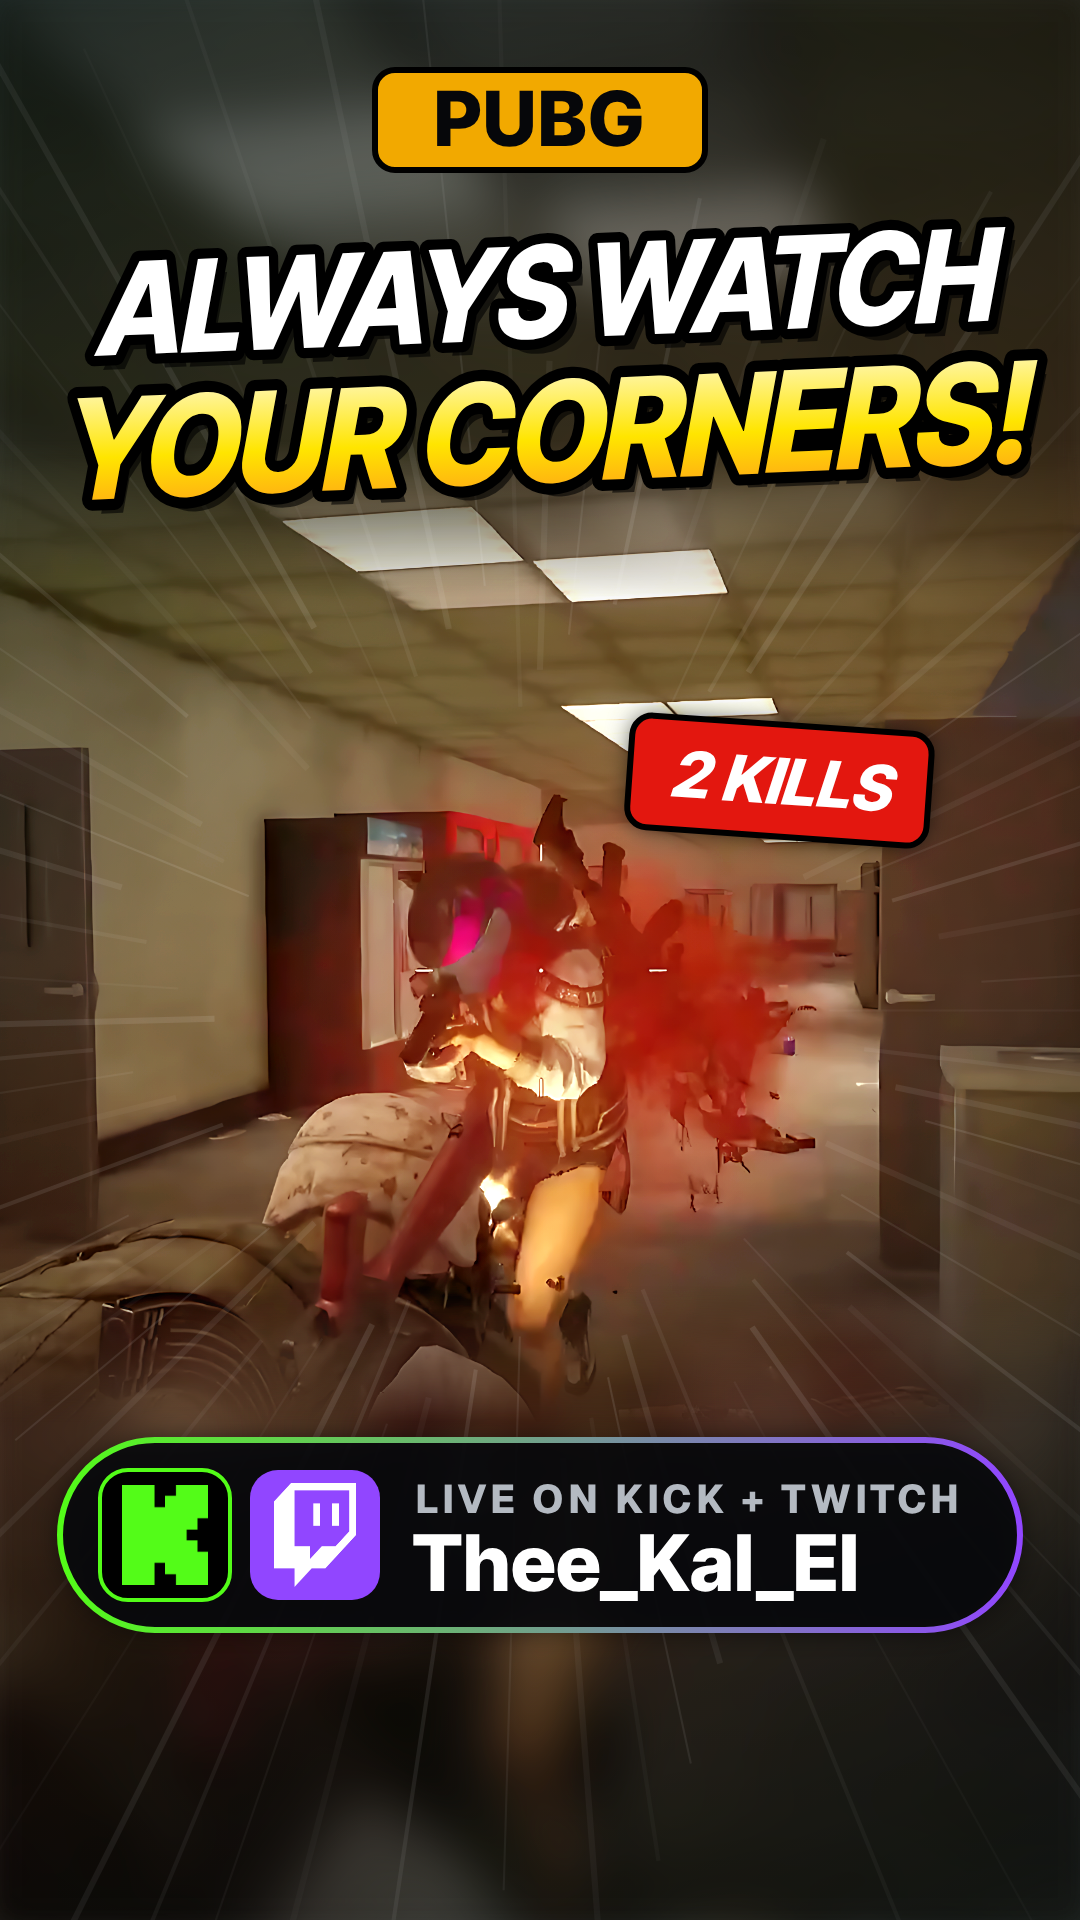
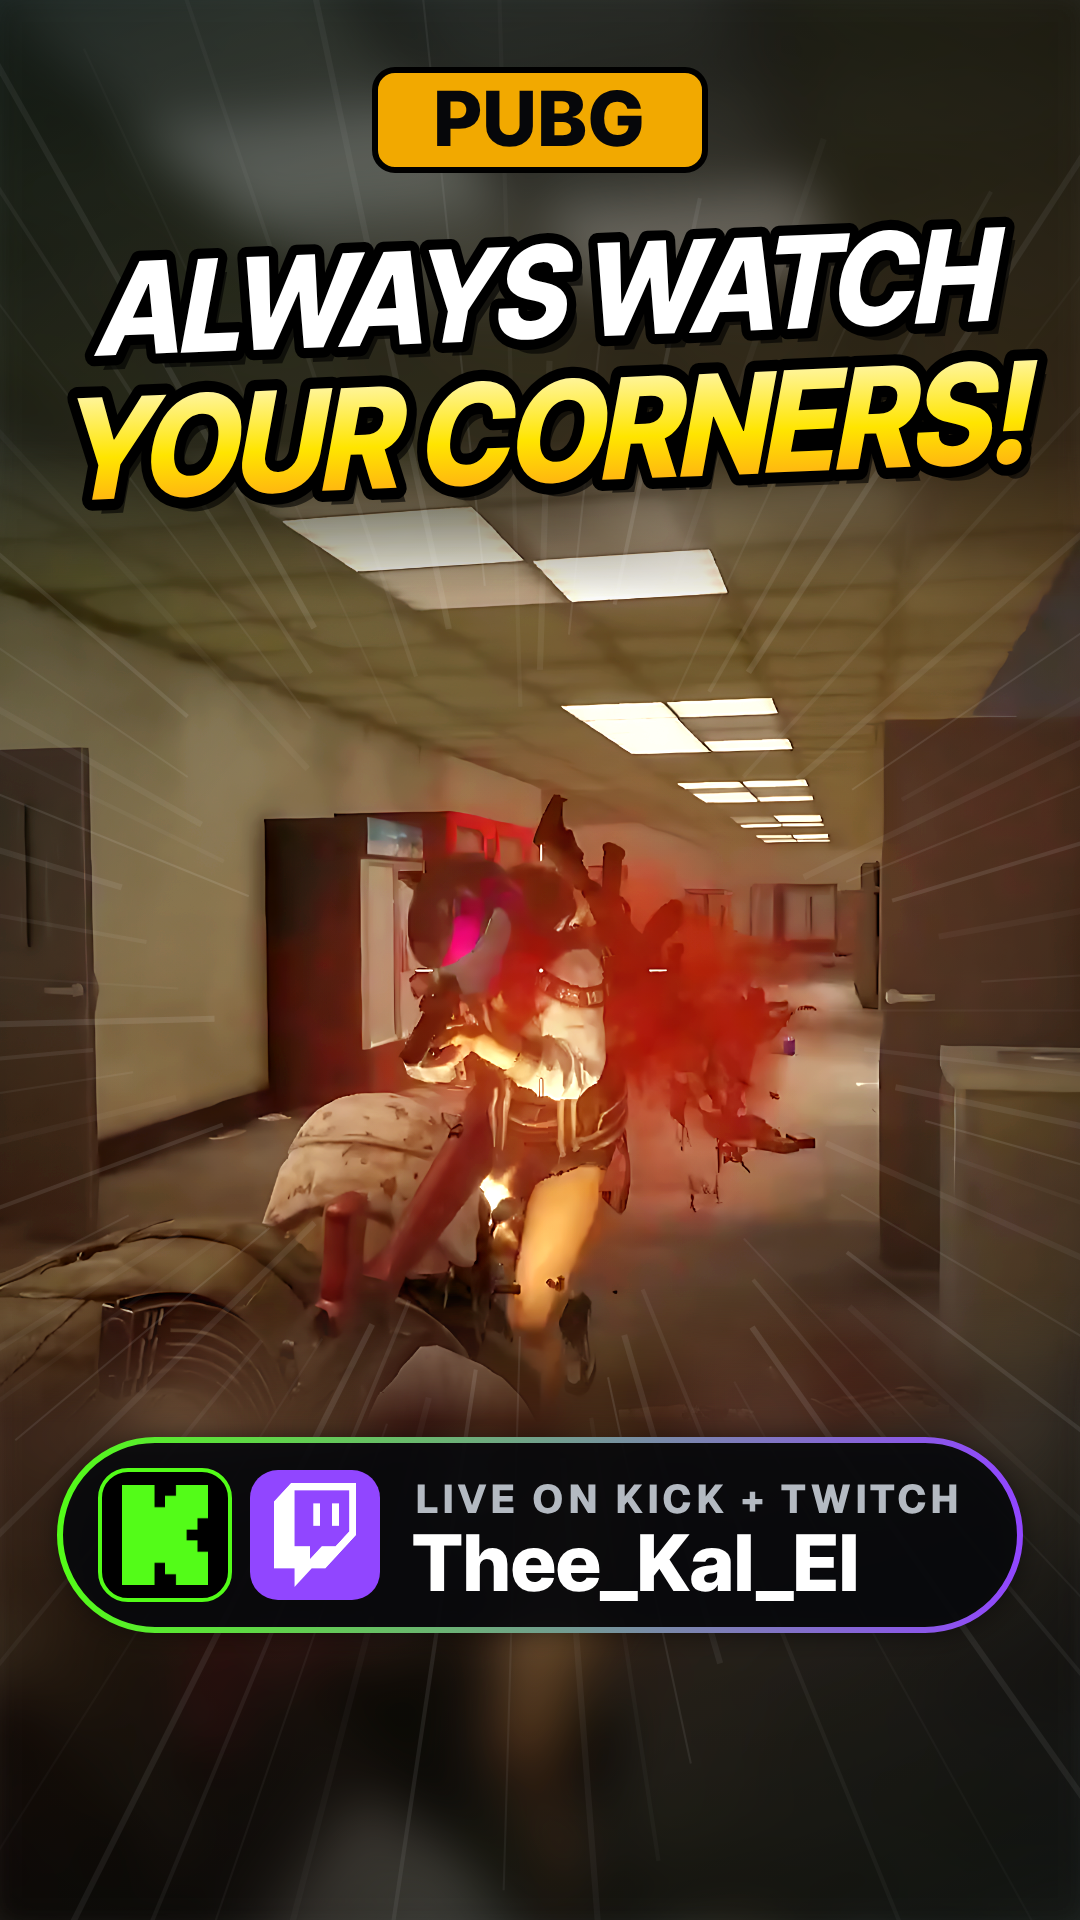
Corners thumbnail: remove 2 KILLS tag
Claude-Session: https://claude.ai/code/session_01NSJvdmHsHoazKiuuGVQfMY

Changed region(s): [[0.55, 0.3438, 0.8861, 0.4688]]

diff --git a/story/pubg_corners_thumb.html b/story/pubg_corners_thumb.html
@@ -6,7 +6,7 @@
 <script>
 // PUBG "ALWAYS WATCH YOUR CORNERS" — vertical cover/thumbnail, 1080x1920. The whole corridor kill (Real-ESRGAN x4 plate), no panel
 // or facecam, feathered into a blurred extension of itself; speed streaks toward the enemy, gentle teal/orange
-// grade, stacked headline up top, a 2 KILLS tag, and the KICK + TWITCH pill at the bottom.
+// grade, stacked headline up top, and the KICK + TWITCH pill at the bottom.
 (async () => {
   const c = document.getElementById('s').getContext('2d'), W = 1080, H = 1920, TAU = Math.PI * 2;
   const YEL = '#FFE500', KICK = '#53FC18', TWI = '#9146FF', INK = '#06070A';
@@ -44,10 +44,6 @@
   rr(375, 70, 330, 100, 20); c.fillStyle = '#F2A900'; c.fill(); c.lineWidth = 6; c.strokeStyle = '#000'; c.stroke(); c.font = D(76); c.fillStyle = INK; c.textAlign = 'center'; c.textBaseline = 'middle'; c.letterSpacing = '2px'; c.fillText('PUBG', 540, 123);
   word('ALWAYS WATCH', 540, 300, 128, '#FFFFFF');
   word('YOUR CORNERS!', 540, 440, 140, ['#FFF7B0', YEL, '#FF9A1A']);
-
-  // ---- 2 KILLS tag pinned near the enemy
-  c.save(); c.translate(EX + 250, EY - 230); c.rotate(0.07); rr(-150, -56, 300, 112, 20); c.fillStyle = '#E3170F'; c.shadowColor = 'rgba(0,0,0,0.7)'; c.shadowBlur = 24; c.fill(); c.shadowBlur = 0; c.lineWidth = 6; c.strokeStyle = '#000'; c.stroke();
-  c.font = 'italic ' + D(64); c.fillStyle = '#fff'; c.textAlign = 'center'; c.textBaseline = 'middle'; c.letterSpacing = '0px'; c.fillText('2 KILLS', 0, 4); c.restore();
 
   // ---- KICK + TWITCH pill in the floor shadow
   const sy = 1440, px = 60, pw = 960, ph = 190; rr(px, sy, pw, ph, ph / 2); c.fillStyle = 'rgba(8,9,12,0.88)'; c.shadowColor = 'rgba(0,0,0,0.7)'; c.shadowBlur = 30; c.fill(); c.shadowBlur = 0;
